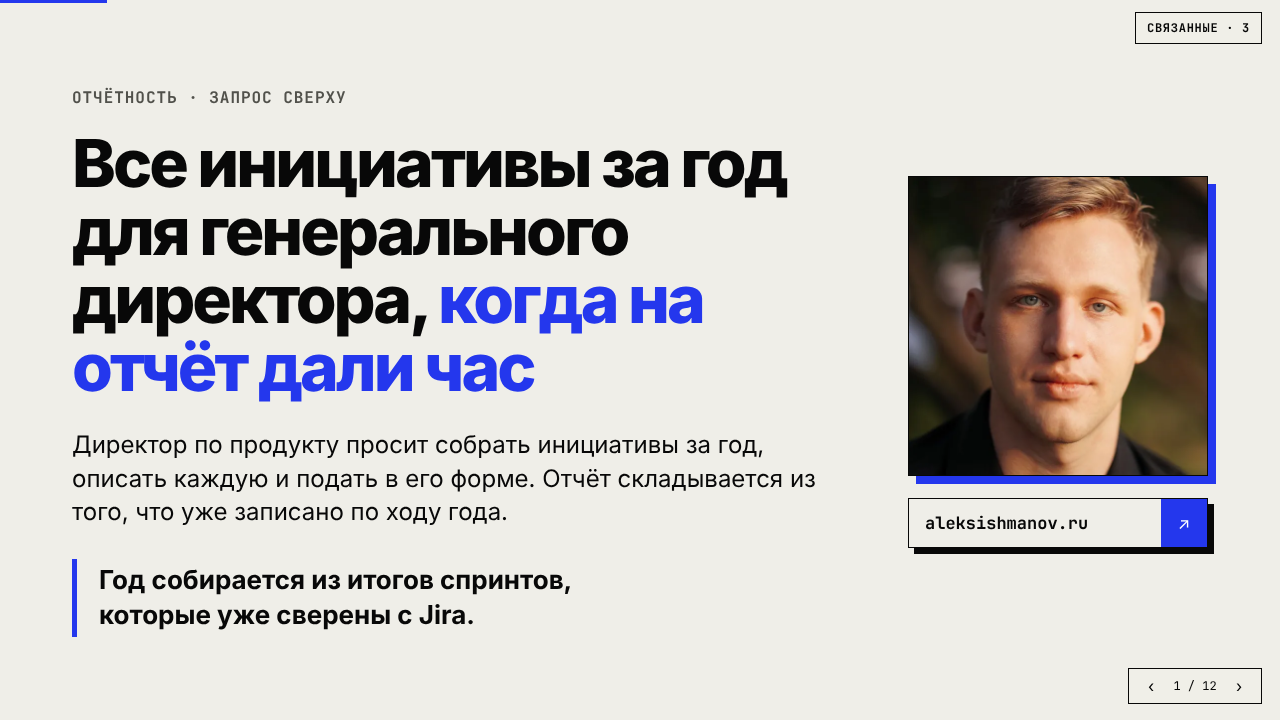
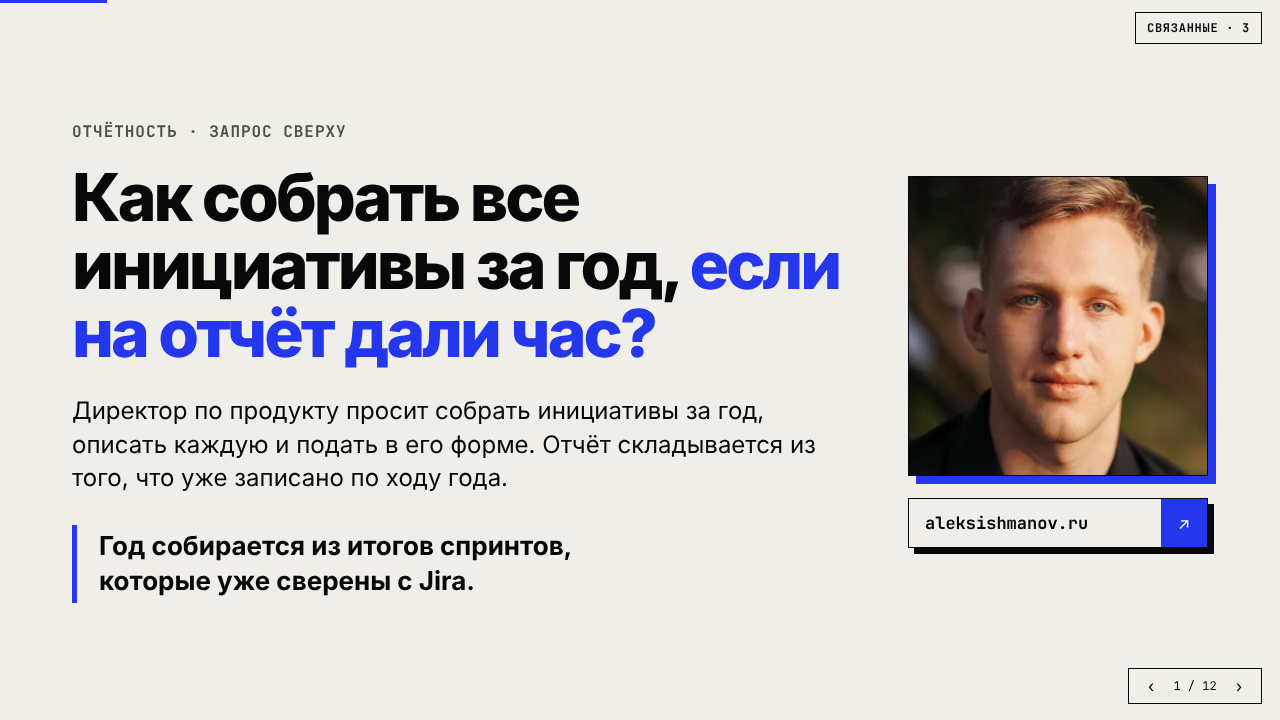
Колода initiatives-year-report: правки ревью голоса и фактов
Claude-Session: https://claude.ai/code/session_01Mp9J3bC8g8RNEXYqpvbZ85

Changed region(s): [[0.0312, 0.1222, 0.6562, 0.8861]]

diff --git a/initiatives-year-report/index.html b/initiatives-year-report/index.html
@@ -196,7 +196,7 @@
   <section class="slide center on" data-title="Титул">
     <div class="cover"><div>
       <p class="kicker">ОТЧЁТНОСТЬ · ЗАПРОС СВЕРХУ</p>
-      <h1>Все инициативы за год для генерального директора, <span class="accent">когда на отчёт дали час</span></h1>
+      <h1>Как собрать все инициативы за год, <span class="accent">если на отчёт дали час?</span></h1>
       <p class="lead">Директор по продукту просит собрать инициативы за год, описать каждую и подать в его форме. Отчёт складывается из того, что уже записано по ходу года.</p>
       <p class="quote">Год собирается из итогов спринтов,<br>которые уже сверены с Jira.</p>
     </div><div><img class="photo" id="coverPhoto" alt="Автор"><a class="site" href="https://aleksishmanov.ru/" target="_blank" rel="noopener"><span>aleksishmanov.ru</span><i>↗</i></a></div></div>
@@ -206,8 +206,8 @@
     <p class="label">Случай автора · обезличен</p>
     <h2>Что попросили и к какому сроку?</h2>
     <div class="talk">
-      <p class="said"><small>ДИРЕКТОР ПО ПРОДУКТУ</small>Нужны все наши инициативы за год: что это, зачем делали и где сейчас. В моей форме. Через час несу генеральному.</p>
-      <p class="said r bad"><small>РУКОВОДИТЕЛЬ НЕСКОЛЬКИХ КОМАНД · ПЕРВАЯ МЫСЛЬ</small>Год — это куча таблиц, выгрузка из Jira и квартальные презентации. Форму придётся собирать вручную.</p>
+      <p class="said"><small>ДИРЕКТОР ПО ПРОДУКТУ</small>Нужны все инициативы за год, с описанием, в моей форме. Через час — генеральному.</p>
+      <p class="said r bad"><small>БЕЗ РЕГУЛЯРНЫХ ОТЧЁТОВ · ПРИШЛОСЬ БЫ</small>Поднимать кучу таблиц, выгружать данные из Jira и в спешке подгонять всё под форму.</p>
     </div>
     <p class="note">Слова пересказаны автором. Запрос — случай из практики автора, срок «час» назвал директор.</p>
   </section>
@@ -226,47 +226,48 @@
 
   <section class="slide" data-title="Три разрыва">
     <p class="label">Что ломает срочный отчёт</p>
-    <h2>Какие три разрыва не закрыть за час вручную?</h2>
+    <h2>Какие три разрыва ломают срочный отчёт и какой из них закрыть к сроку?</h2>
     <div class="three">
       <div class="card"><span class="tag">01 · ДАННЫЕ</span><h3>Разбросаны по местам</h3><p>Инициативы года живут в трекере, таблицах и презентациях. Их ещё надо свести в один список.</p></div>
       <div class="card"><span class="tag">02 · СТАТУСЫ</span><h3>Расходятся между документами</h3><p>В Jira эпик «в работе», на слайде комитету «запущено», в таблице квартала строки уже нет.</p></div>
       <div class="card"><span class="tag">03 · ОБОСНОВАНИЕ</span><h3>Не записано</h3><p>Зачем делали и почему перенесли, руководство спросит первым. Ответ приходится восстанавливать по памяти.</p></div>
     </div>
-    <p class="note">Рассуждение автора. Пример расхождения статусов условный.</p>
+    <p class="note">Рассуждение автора: к сроку можно свести список, статусы и обоснования закрываются только записями по ходу года. Пример расхождения статусов условный.</p>
   </section>
 
   <section class="slide" data-title="Что уже было">
     <p class="label">К моменту запроса</p>
     <h2>Что уже было записано, когда пришёл запрос?</h2>
     <div class="cards roomy">
-      <div class="card blue"><span class="tag">КАЖДЫЙ СПРИНТ</span><h3>Бизнес-отчёт спринта</h3><p>Итог по целям квартала, по каждой цели — что сделано, что держит и следующий шаг. Цифры — из трекера, тексты пишет агент.</p></div>
+      <div class="card blue"><span class="tag">КАЖДЫЙ СПРИНТ</span><h3>Бизнес-отчёт спринта</h3><p>Итог по целям квартала: по каждому ключевому результату — итог, что держит и следующий шаг. Цифры — из трекера, тексты пишет агент.</p></div>
       <div class="card blue"><span class="tag">КАЖДОЕ УТРО</span><h3>Рефлексия агентов</h3><p>Агент сдаёт свою картину движения к целям, руководитель комментирует расхождения. Правки руководителя агент не переписывает.</p></div>
     </div>
-    <p class="quote">Год — это стопка итогов спринтов, которые уже сверены и объяснены.</p>
+    <p class="quote">Отчёт за год собирается из итогов спринтов, сверенных с Jira.</p>
   </section>
 
   <section class="slide" data-title="Выравнивание">
-    <p class="label">Почему статусам можно верить</p>
-    <h2>Как статусы в Jira и в документах совпадают к концу года?</h2>
+    <p class="label">Сверка статусов · каждое утро</p>
+    <h2>Как статусы в Jira и в документах остаются одинаковыми?</h2>
     <div class="split wide">
       <ol class="rit">
         <li>Агент сдаёт утром картину по целям квартала<span>что сдвинулось, что держит, какие риски</span></li>
         <li>Руководитель пишет, где картина не совпадает с его<span>одной фразой под документом</span></li>
-        <li class="hi">Правка уходит в Jira и в отчёт после подтверждения<span>в Jira пишет сервис, только после ✅ человека</span></li>
-        <li>Следующий сбор идёт по исправленной Jira<span>отчёт и трекер говорят одно</span></li>
+        <li>Агент принимает комментарий как факт<span>отвечает, записывает урок и показывает его в следующей рефлексии</span></li>
+        <li class="hi">Замечания к бизнес-отчёту агент превращает в план правок<span>в Jira правки уходят только после подтверждения человека</span></li>
       </ol>
-      <div class="card"><span class="tag">ОБОСНОВАНИЕ</span><h3>Слово руководителя записано</h3><p>Принятые от руководителя правки агент перечисляет отдельно. К концу года «зачем делали» и «почему перенесли» уже лежат рядом с инициативой.</p><p class="note">Чего нет в данных, агент помечает «[УТОЧНИТЬ]» и задаёт вопрос.</p></div>
+      <div class="card"><span class="tag">ОБОСНОВАНИЕ</span><h3>Слово руководителя записано</h3><p>Правки руководителя агент не переписывает и перечисляет в рефлексии отдельно. В случае автора к моменту запроса обоснование было записано по каждой инициативе.</p><p class="note">Чего нет в данных, агент рефлексии помечает «[УТОЧНИТЬ]» и задаёт вопрос.</p></div>
     </div>
   </section>
 
   <section class="slide" data-title="Что сделал">
     <p class="label">Порядок в этом случае</p>
-    <h2>Что я сделал, когда пришёл запрос?</h2>
+    <h2>Что было готово и что я сделал, когда пришёл запрос?</h2>
     <ol class="rit">
-      <li>Переслал агенту запрос и форму директора как есть<span>колонки и порядок — как попросили</span></li>
-      <li>Агент собрал инициативы из бизнес-отчётов спринтов за год<span>по каждой — цель, итог, где сейчас</span></li>
-      <li>Статусы и обоснования агент взял из рефлексий<span>они уже сверены с Jira и между документами</span></li>
-      <li class="hi">Отчёт в нужной форме пришёл примерно через 15 минут<span>по оценке автора, один случай; срок зависит от числа инициатив и формы</span></li>
+      <li>Всё нужное уже лежало в бизнес-отчётах спринтов<span>вся информация по инициативам за год</span></li>
+      <li>Статусы выровнены ежедневными рефлексиями<span>в Jira и в разных документах одно и то же</span></li>
+      <li>По каждой инициативе записано обоснование<span>зачем её делали</span></li>
+      <li>Отправил один запрос<span>с той формой, которую попросило руководство</span></li>
+      <li class="hi">Отчёт в нужной форме — примерно через 15 минут<span>по оценке автора, один случай, не замер</span></li>
     </ol>
     <p class="note">Случай из практики автора: описание одного раза, срок не гарантируется.</p>
   </section>
@@ -289,31 +290,31 @@
     <h2>Откуда в отчёте берутся статусы и обоснования?</h2>
     <div class="flow">
       <div class="zone out"><p class="zl">Источники</p>
-        <div class="node"><b>Jira</b>доски, спринты, эпики — только на чтение</div>
-        <div class="node"><b>Цели квартала</b>цели и ключевые результаты, раз в квартал</div>
+        <div class="node"><b>Jira</b>доски, спринты, эпики; сборщик только читает</div>
+        <div class="node"><b>Цели квартала</b>в Confluence, раз в квартал</div>
       </div>
       <div class="arr">→</div>
       <div class="zone"><p class="zl">Каждый спринт и каждое утро</p>
         <div class="node blue"><b>Сборщик утром, без ИИ</b>снимок трекера, цифры считает код</div>
-        <div class="node blue"><b>Бизнес-отчёт спринта</b>итог, блокер и шаг по каждой цели</div>
-        <div class="node blue"><b>Рефлексия агентов</b>расхождения поправлены руководителем</div>
+        <div class="node blue"><b>Бизнес-отчёт спринта</b>итог, блокер и шаг по каждому ключевому результату</div>
+        <div class="node blue"><b>Рефлексия агентов</b>картина агента поправлена руководителем</div>
       </div>
       <div class="arr">→</div>
       <div class="zone out"><p class="zl">По запросу</p>
-        <div class="node"><b>Агент собирает год</b>в форме, которую назвал руководитель</div>
+        <div class="node"><b>Запрос руководителя</b>в форме, которую попросили</div>
         <div class="node"><b>Руководитель читает</b>и отправляет наверх</div>
       </div>
     </div>
-    <p class="note">Нейросеть пишет тексты, цифры считает код. Агенты — PO-агенты на Hermes; как устроен бизнес-отчёт — колода «Бизнес-отчёт спринта» в этом каталоге.</p>
+    <p class="note">Нейросеть пишет тексты, цифры считает код. Правки в Jira пишутся только после подтверждения человека. Как устроен бизнес-отчёт — колода «Бизнес-отчёт спринта» в этом каталоге.</p>
   </section>
 
   <section class="slide" data-title="Несколько команд">
     <p class="label">Если команд несколько</p>
-    <h2>Что попросить у руководителей команд, чтобы год собирался сам?</h2>
+    <h2>Что попросить у руководителей команд, чтобы год не собирать заново?</h2>
     <div class="three">
-      <div class="card blue"><span class="tag">ИТОГ</span><h3>Итог спринта — по целям</h3><p>Каждая строка итога привязана к цели квартала. Работа без цели идёт отдельной строкой и не теряется.</p></div>
-      <div class="card blue"><span class="tag">ПРИЧИНА</span><h3>Решение — с причиной в тот же день</h3><p>Перенесли или остановили — одна фраза «почему» рядом с инициативой.</p></div>
-      <div class="card blue"><span class="tag">СТАТУС</span><h3>Jira и слайды говорят одно</h3><p>Расхождение, найденное на показе, правится в Jira, а не только на слайде.</p></div>
+      <div class="card blue"><span class="tag">ИТОГ</span><h3>Итог спринта — по целям</h3><p>Попросите привязывать каждую строку итога к цели квартала, а работу без цели — писать отдельной строкой.</p></div>
+      <div class="card blue"><span class="tag">ПРИЧИНА</span><h3>Решение — с причиной в тот же день</h3><p>Попросите в день решения записывать одну фразу «почему» рядом с инициативой.</p></div>
+      <div class="card blue"><span class="tag">СТАТУС</span><h3>Jira и слайды говорят одно</h3><p>Попросите править в Jira расхождение, найденное на показе, в тот же день.</p></div>
     </div>
     <p class="note">Правила предлагает автор.</p>
   </section>
@@ -323,8 +324,8 @@
     <h2>Чего этот способ не делает и где нужен человек?</h2>
     <ul class="lim">
       <li><span><b>Не работает задним числом.</b> Инициативы до первых регулярных отчётов придётся собирать вручную.</span></li>
-      <li><span><b>Не придумывает обоснование.</b> Нет записи о решении — в строке «[УТОЧНИТЬ]», и это вопрос к вам.</span></li>
-      <li><span><b>Статус верен настолько, насколько сверялись рефлексии.</b> Пропущенные недели видны как старые данные.</span></li>
+      <li><span><b>Не восстанавливает незаписанное.</b> Нет записи о решении — обоснования в отчёте не будет; в демо такая строка помечена «[УТОЧНИТЬ]».</span></li>
+      <li><span><b>Статус верен настолько, насколько регулярно шла сверка.</b> Не прошёл утренний сбор — рефлексия строится на вчерашних данных и пишет об этом.</span></li>
       <li><span><b>Форму и акценты задаёте вы.</b> Что показать генеральному первым, агент не решает.</span></li>
       <li><span><b>Отправляет человек.</b> Прочтите каждую строку: отчёт уходит от вашего имени.</span></li>
     </ul>
@@ -336,12 +337,12 @@
       <h1>Как подготовиться к следующему срочному отчёту?</h1>
       <ul class="lim" style="margin-top:26px">
         <li><span>Если итог спринта пишут по задачам, попросите писать его по целям квартала.</span></li>
-        <li><span>Если причины решений живут в головах, записывайте одну фразу в день решения.</span></li>
-        <li><span>Если статус в Jira расходится со слайдом, правьте Jira в тот же день.</span></li>
+        <li><span>Если причины решений живут в головах, попросите руководителей команд записывать одну фразу в день решения.</span></li>
+        <li><span>Если статус в Jira расходится со слайдом, попросите поправить Jira в тот же день.</span></li>
       </ul>
     </div><div>
       <div class="ask-in"><small>Сообщение командам</small>«С этого спринта в итоге по каждой цели квартала — одна строка: что сделано, что держит и почему так решили».</div>
-      <p class="note">Отчёт бизнесу по спринту, из которого собирается год, — одна из шести встреч практикума «День руководителя с ИИ». Отчёты собираются у вас, Jira только на чтение.</p>
+      <p class="note">Практикум «День руководителя с ИИ» — шесть встреч, отчёты собираются у вас, Jira только на чтение.</p>
       <a class="repo" href="https://t.me/poops_salesbot?start=den" target="_blank" rel="noopener">Программа в Telegram ↗</a>
     </div></div>
   </section>
